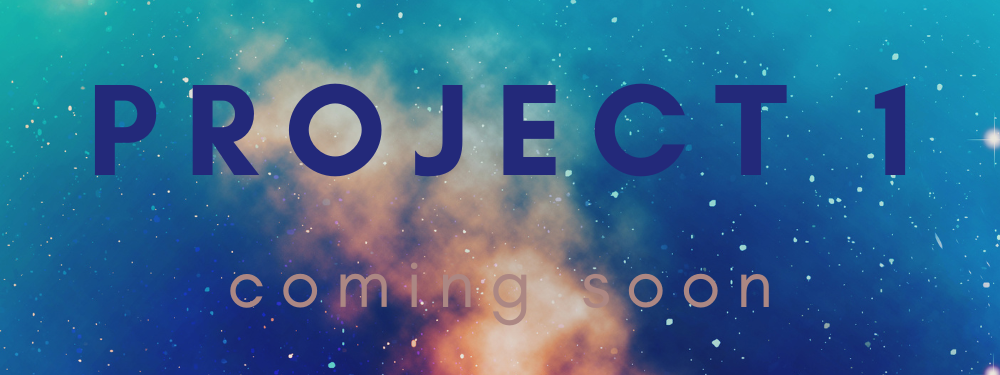
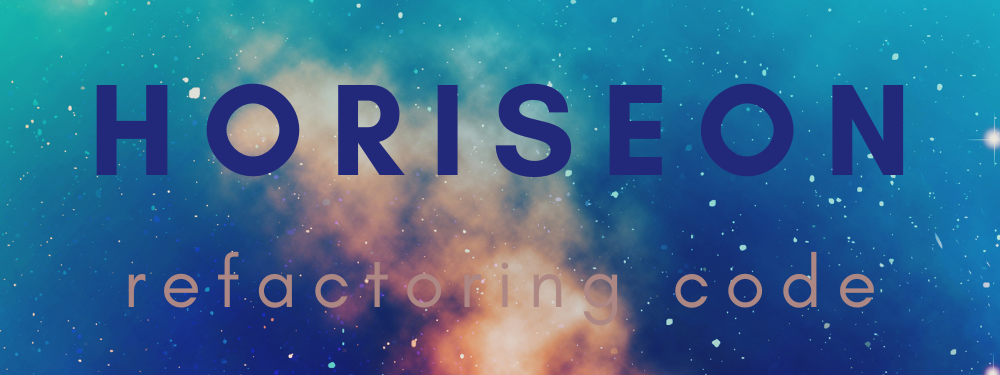
added Horiseon Project as project one- changed image and linked url

diff --git a/index.html b/index.html
@@ -32,12 +32,13 @@
                     <p>DeeAnn's technical skills include front end web development tools such as HTML/CSS, Javascript/jQuery, Responsive Design, React.js and others. She has worked on API Design, Databases such as MySQL and MongoDB and is familiar with deployment and delivery tools like Git, Shell Scripting, Github and Unit Testing. </p>
                   
                 </section>
-<!--Work: Resized images to create requested layout and linked to placeholder URL created in google docs. Changed tags to simplify structure-->
+<!--Work: Resized images to create requested layout and linked to Horiseon Project and placeholder URL created in google docs. 
+    Changed tags to simplify structure-->
            <section>
                 <h2 id="work">Work </h2>
             <div>
                 <article> 
-                    <a href="https://docs.google.com/document/d/1BqbAvw28n-85w6aQSYThBDCl3L02DOObJnZ9DMHSR28/edit?usp=sharing">
+                    <a href="https://github.com/dstelzl/horiseon-refactor-project">
                     <img id="proj1" src="./assets/images/PROJECT 1.png" alt="Project One Image"/></a>
             </article>
         </div> 
